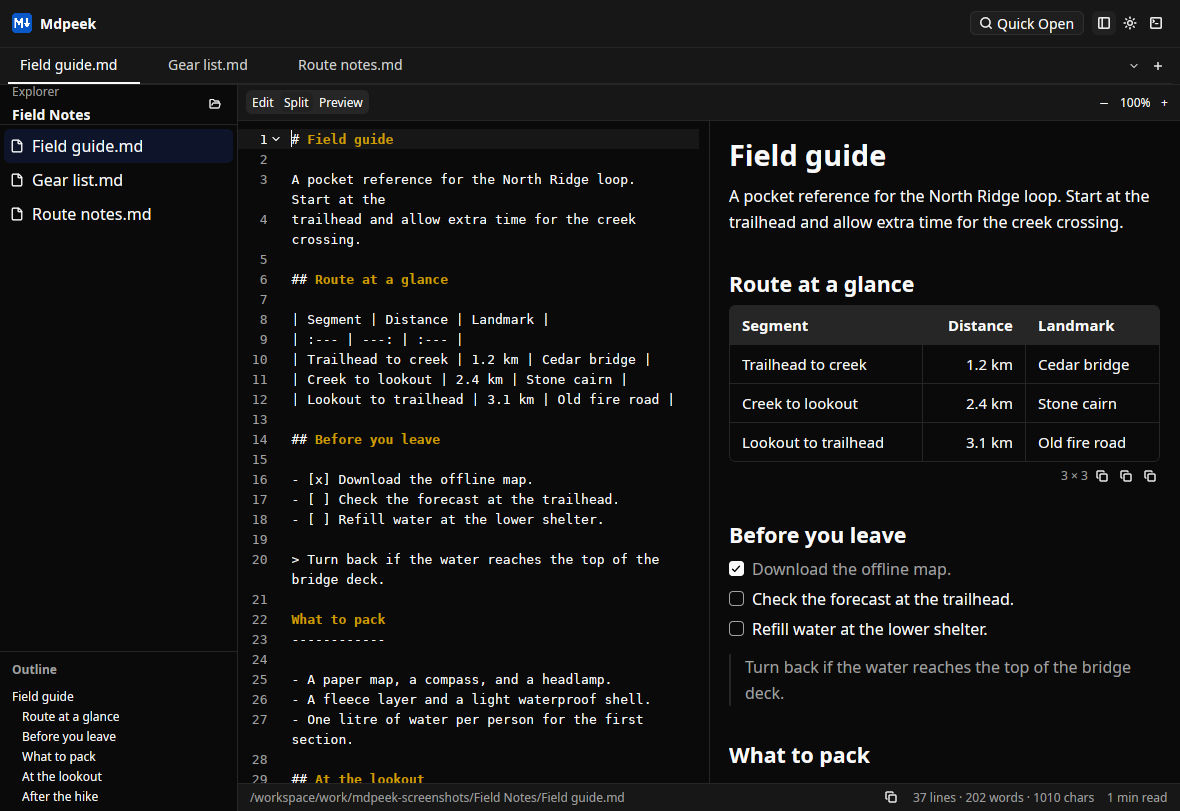
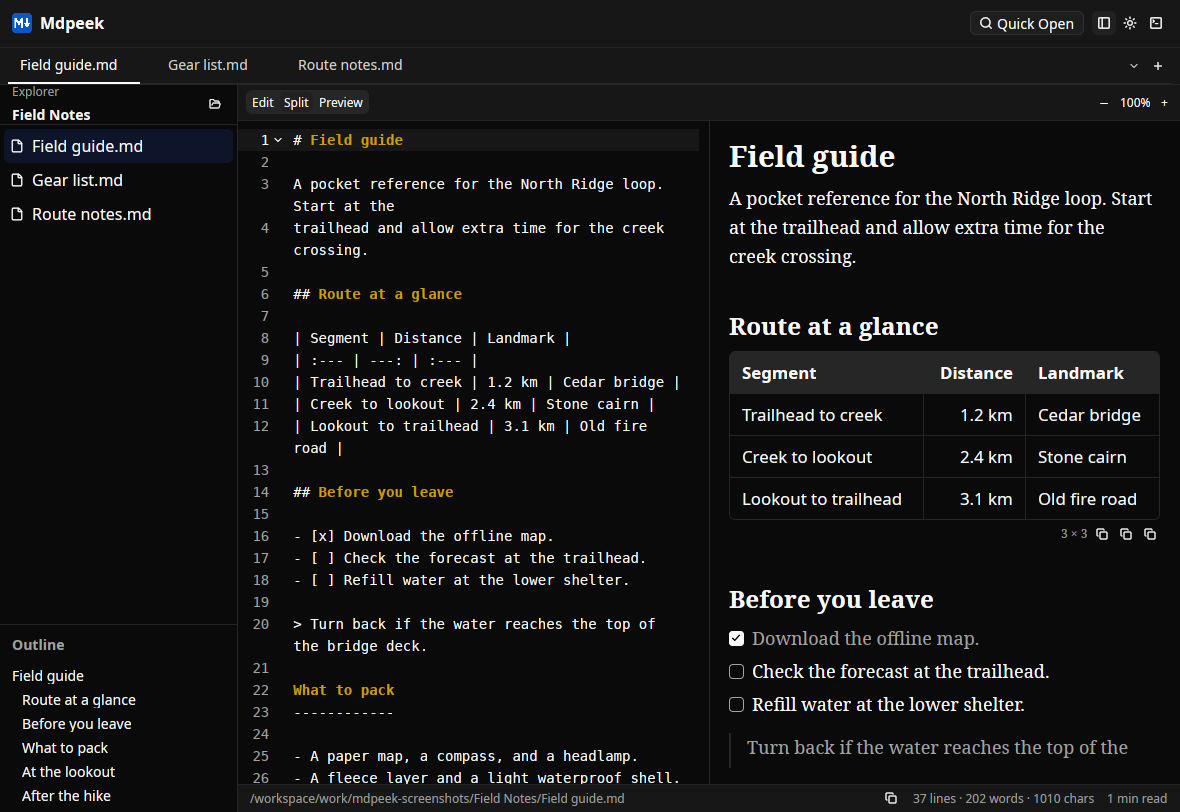
feat: refine Markdown and editor typography

diff --git a/crates/mdpeek/src/document.rs b/crates/mdpeek/src/document.rs
@@ -517,9 +517,14 @@ impl DocumentView {
     }
 
     fn render_editor(&self) -> impl IntoElement {
-        div()
-            .size_full()
-            .child(Editor::new(&self.editor).h(relative(1.)).p_0().border_0())
+        div().size_full().child(
+            Editor::new(&self.editor)
+                .h(relative(1.))
+                .text_size(px(14.))
+                .line_height(relative(1.55))
+                .p_0()
+                .border_0(),
+        )
     }
 
     fn render_preview(&self, cx: &mut Context<Self>) -> impl IntoElement {
@@ -529,9 +534,31 @@ impl DocumentView {
             .bg(cx.theme().muted)
             .text_color(cx.theme().foreground)
             .font_weight(FontWeight::SEMIBOLD);
+        let cells = StyleRefinement::default().font_family(cx.theme().font_family.clone());
+        let markdown = self.kind == DocumentKind::Markdown;
+        let reading_size = px(18. * self.preview_zoom);
+        let mut style = TextViewStyle::default()
+            .table(table)
+            .table_head(header)
+            .table_cell(cells);
+        if markdown {
+            style.heading_base_font_size = reading_size;
+            style = style
+                .paragraph_gap(rems(0.9))
+                .heading_font_size(|level, body| {
+                    let scale = match level {
+                        1 => 1.65,
+                        2 => 1.35,
+                        3 => 1.18,
+                        4 => 1.08,
+                        _ => 1.0,
+                    };
+                    body * scale
+                });
+        }
         div().size_full().child(
             TextView::new(&self.preview)
-                .style(TextViewStyle::default().table(table).table_head(header))
+                .style(style)
                 .image_source({
                     let base = self
                         .path
@@ -633,6 +660,11 @@ impl DocumentView {
                         )
                 })
                 .text_size(rems(self.preview_zoom))
+                .when(markdown, |view| {
+                    view.font_family(reading_font(cx))
+                        .text_size(reading_size)
+                        .line_height(relative(1.6))
+                })
                 .px_5()
                 .py_4()
                 .scrollable(true)
@@ -772,6 +804,26 @@ impl Render for DocumentView {
             )
             .child(self.render_status(compact, cx))
     }
+}
+
+fn reading_font(cx: &App) -> SharedString {
+    static FAMILY: OnceLock<Option<SharedString>> = OnceLock::new();
+    FAMILY
+        .get_or_init(|| {
+            let installed = cx.text_system().all_font_names();
+            [
+                "Georgia",
+                "Bitstream Charter",
+                "Noto Serif",
+                "Liberation Serif",
+                "DejaVu Serif",
+            ]
+            .into_iter()
+            .find(|family| installed.iter().any(|name| name == family))
+            .map(SharedString::from)
+        })
+        .clone()
+        .unwrap_or_else(|| cx.theme().font_family.clone())
 }
 
 fn table_to_csv(headers: &[String], rows: &[Vec<String>]) -> String {

diff --git a/crates/mdpeek/src/app.rs b/crates/mdpeek/src/app.rs
@@ -1535,7 +1535,7 @@ impl Mdpeek {
                     .child(img(LOGO.clone()).size_5().flex_none())
                     .child(
                         div()
-                            .text_sm()
+                            .text_base()
                             .font_weight(FontWeight::SEMIBOLD)
                             .truncate()
                             .child("Mdpeek"),
@@ -1785,7 +1785,7 @@ impl Mdpeek {
                 div()
                     .px_3()
                     .py_2()
-                    .text_xs()
+                    .text_sm()
                     .font_weight(FontWeight::SEMIBOLD)
                     .text_color(cx.theme().muted_foreground)
                     .child("Outline"),
@@ -1802,7 +1802,7 @@ impl Mdpeek {
                         let source = heading.source.clone();
                         Button::new(("outline-heading", source.start))
                             .ghost()
-                            .xsmall()
+                            .small()
                             .w_full()
                             .justify_start()
                             .pl(px(8. + (heading.level.saturating_sub(1) as f32 * 10.)))

diff --git a/CHANGELOG.md b/CHANGELOG.md
@@ -7,6 +7,7 @@ and this project adheres to [Semantic Versioning](https://semver.org/spec/v2.0.0
 
 ## [Unreleased]
 
+- Set Markdown previews in a larger serif face with more line spacing. Increase the editor’s monospace text size and make the outline easier to scan.
 - Make table headers easier to read in both themes and let wide preview tables scroll horizontally.
 - Include underlined Markdown headings in the outline and scroll to headings without leaving Preview.
 - Add a Copy file path button to the document status bar.
